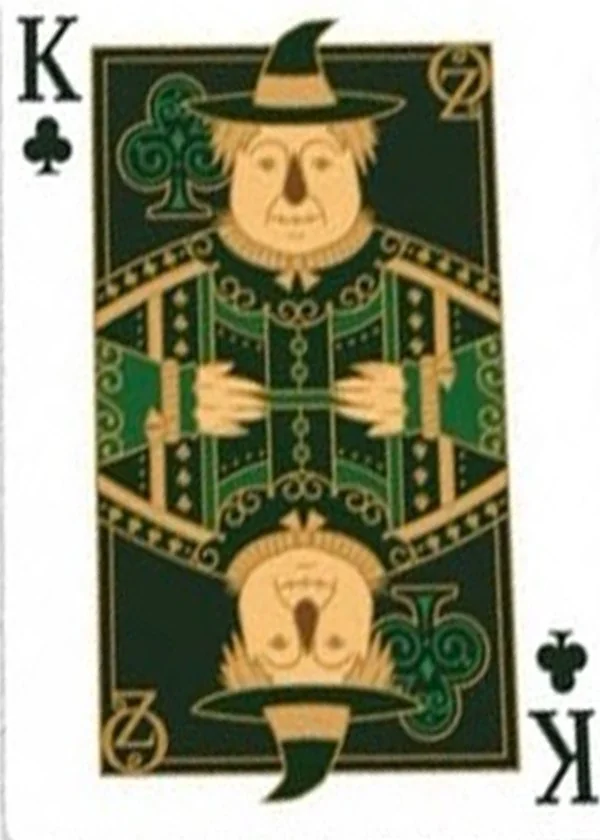
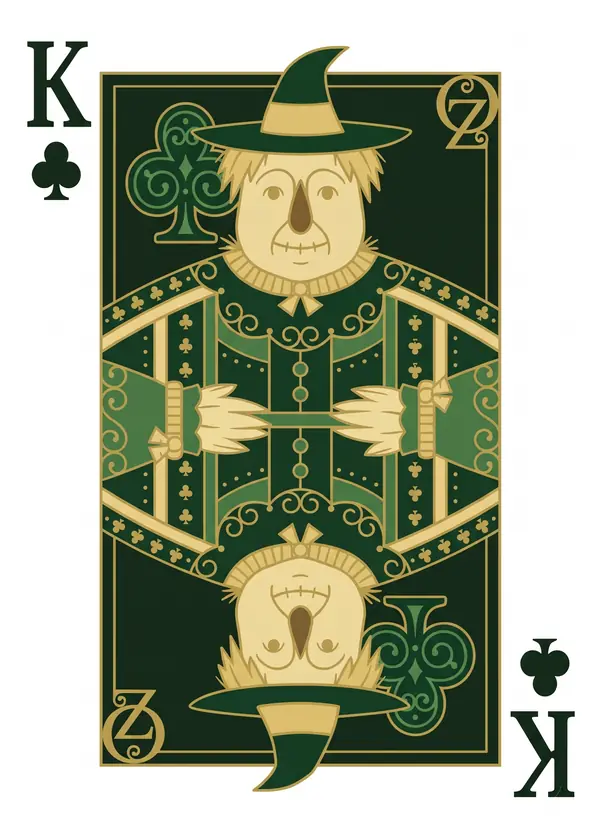
feat(theme): Emerald Gilt art for every trump suit, redrawn clean
The King of spades and King of diamonds join the King of clubs and Queen of
hearts, so no trump falls back to the bare symbol any more. All five images
(and the back) are clean flat redraws of the deck in place of the cropped
photos: 600x840 WebP at quality 75, about 200 KB together.

diff --git a/src/styles/themes/emerald-gilt.css b/src/styles/themes/emerald-gilt.css
@@ -114,6 +114,8 @@
   --art-back-mini: url('../../assets/themes/emerald-gilt/back-mini.webp');
   --art-trump-hearts: url('../../assets/themes/emerald-gilt/queen-hearts.webp');
   --art-trump-clubs: url('../../assets/themes/emerald-gilt/king-clubs.webp');
+  --art-trump-spades: url('../../assets/themes/emerald-gilt/king-spades.webp');
+  --art-trump-diamonds: url('../../assets/themes/emerald-gilt/king-diamonds.webp');
   /* Three golds and the emerald: the winner's confetti in place of the players' colours (themeConfetti). */
   --confetti-1: #ebd08c;
   --confetti-2: #c9a24e;
@@ -317,14 +319,10 @@
   border-radius: var(--r-sm);
 }
 /* Only once the art is decoded (src/theme/art.ts): until then, or offline, the symbol shows instead of a blank face. */
-[data-theme='emerald-gilt'][data-art-ready~='emerald-gilt']
-  .trump-face:is([data-suit='hearts'], [data-suit='clubs'])
-  > .trump-glyph {
+[data-theme='emerald-gilt'][data-art-ready~='emerald-gilt'] .trump-face > .trump-glyph {
   opacity: 0;
 }
-[data-theme='emerald-gilt']
-  .trump-mark:is([data-suit='hearts'], [data-suit='clubs'])
-  > .trump-mini {
+[data-theme='emerald-gilt'] .trump-mark > .trump-mini {
   display: block;
   position: absolute;
   left: 50%;
@@ -338,9 +336,7 @@
     0 0 0 1px var(--glass-b),
     0 4px 10px -4px var(--drop);
 }
-[data-theme='emerald-gilt']
-  .trump-mark:is([data-suit='hearts'], [data-suit='clubs'])
-  > .trump-glyph {
+[data-theme='emerald-gilt'] .trump-mark > .trump-glyph {
   position: relative;
   z-index: 1;
   translate: 0.45em 0.55em;
@@ -349,18 +345,14 @@
     0 0 0.12em var(--bg),
     0 0 0.3em var(--bg);
 }
-[data-theme='emerald-gilt']
-  :has(> .trump-mark:is([data-suit='hearts'], [data-suit='clubs']))
-  > .suit-ring {
+[data-theme='emerald-gilt'] :has(> .trump-mark) > .suit-ring {
   display: none;
 }
 /* Beside a number in one line (the desk's Coming up), the card stays within the line. */
 [data-theme='emerald-gilt'] .trump-mark.is-inline > .trump-mini {
   width: 0.72em;
 }
-[data-theme='emerald-gilt']
-  .trump-mark.is-inline:is([data-suit='hearts'], [data-suit='clubs'])
-  > .trump-glyph {
+[data-theme='emerald-gilt'] .trump-mark.is-inline > .trump-glyph {
   translate: 0.32em 0.22em;
 }
 [data-theme='emerald-gilt'] .sq-card {

diff --git a/src/theme/art.ts b/src/theme/art.ts
@@ -1,6 +1,8 @@
 import back from '@/assets/themes/emerald-gilt/back.webp';
 import backMini from '@/assets/themes/emerald-gilt/back-mini.webp';
 import kingClubs from '@/assets/themes/emerald-gilt/king-clubs.webp';
+import kingDiamonds from '@/assets/themes/emerald-gilt/king-diamonds.webp';
+import kingSpades from '@/assets/themes/emerald-gilt/king-spades.webp';
 import queenHearts from '@/assets/themes/emerald-gilt/queen-hearts.webp';
 import type { ThemeId } from './themes';
 
@@ -9,7 +11,7 @@ import type { ThemeId } from './themes';
  * screen uses them, which is mid-deal, so the art is fetched and decoded as soon as the theme is shown.
  */
 const ART: Partial<Record<ThemeId, string[]>> = {
-  'emerald-gilt': [back, backMini, queenHearts, kingClubs],
+  'emerald-gilt': [back, backMini, queenHearts, kingClubs, kingSpades, kingDiamonds],
 };
 
 const loads = new Map<ThemeId, Promise<boolean>>();

diff --git a/src/styles/themes.css b/src/styles/themes.css
@@ -186,6 +186,8 @@
   --art-back-mini: none;
   --art-trump-hearts: none;
   --art-trump-clubs: none;
+  --art-trump-spades: none;
+  --art-trump-diamonds: none;
   --reveal-hold: 0ms;
   --name-frame: none;
   --fan-anim: deal-fan;
@@ -466,6 +468,12 @@
 }
 .trump-face[data-suit='clubs'] {
   background-image: var(--art-trump-clubs);
+}
+.trump-face[data-suit='spades'] {
+  background-image: var(--art-trump-spades);
+}
+.trump-face[data-suit='diamonds'] {
+  background-image: var(--art-trump-diamonds);
 }
 /* A later round's small trump card (TrumpMark), only for a suit with art; the symbol becomes a badge on its corner. */
 .trump-mini {

diff --git a/e2e/themes.spec.ts b/e2e/themes.spec.ts
@@ -108,7 +108,7 @@ test('emerald-gilt: the deck art is fetched when the theme is shown, before any 
   await page.evaluate(() => localStorage.setItem('kf.theme', 'emerald-gilt'));
   await page.reload();
   await expect(page.locator('html[data-art-ready~="emerald-gilt"]')).toBeAttached();
-  expect(art.length).toBe(4);
+  expect(art.length).toBe(6);
 });
 
 test('other themes never fetch deck art', async ({ page }) => {

diff --git a/src/styles/themes/editorial-paper.css b/src/styles/themes/editorial-paper.css
@@ -108,6 +108,8 @@
   --art-back-mini: none;
   --art-trump-hearts: none;
   --art-trump-clubs: none;
+  --art-trump-spades: none;
+  --art-trump-diamonds: none;
   --reveal-hold: 0ms;
   --name-frame: none;
   --fan-anim: deal-fan;

diff --git a/src/styles/themes/yerba-sun.css b/src/styles/themes/yerba-sun.css
@@ -106,6 +106,8 @@
   --art-back-mini: none;
   --art-trump-hearts: none;
   --art-trump-clubs: none;
+  --art-trump-spades: none;
+  --art-trump-diamonds: none;
   --reveal-hold: 0ms;
   --name-frame: none;
   --fan-anim: deal-fan;

diff --git a/src/assets/themes/emerald-gilt/SOURCE.md b/src/assets/themes/emerald-gilt/SOURCE.md
@@ -1,10 +1,10 @@
 # Emerald Gilt deck art
 
-The card back, the Queen of hearts and the King of clubs are photographs of the emerald-and-gold playing-card deck
-the Emerald Gilt theme is based on, straightened and cropped. They are used with the rights holder's permission
-(held in writing outside this repository) for this app and this public repository only: not in the share image,
-the app icon, the splash screen or the manifest.
+The card back, the Queen of hearts and the Kings of spades, diamonds and clubs come from the emerald-and-gold
+playing-card deck the Emerald Gilt theme is based on: photographs of the cards, redrawn flat and clean from those
+photographs (the artwork itself unchanged). They are used with the rights holder's permission (held in writing
+outside this repository) for this app and this public repository only: not in the share image, the app icon, the
+splash screen or the manifest.
 
-Replace each file with the publisher's original when it arrives (600×840 WebP, quality about 85; `back-mini.webp`
-is 96×136, twice the size of the small dealt cards). The King of spades and the King of diamonds have no file yet,
-so those trumps show the suit symbol. Never use another suit's card in their place.
+Replace each file with the publisher's original when it arrives (600×840 WebP, quality about 75; `back-mini.webp`
+is 96×136, twice the size of the small dealt cards). Never use another suit's card in place of a missing one.
